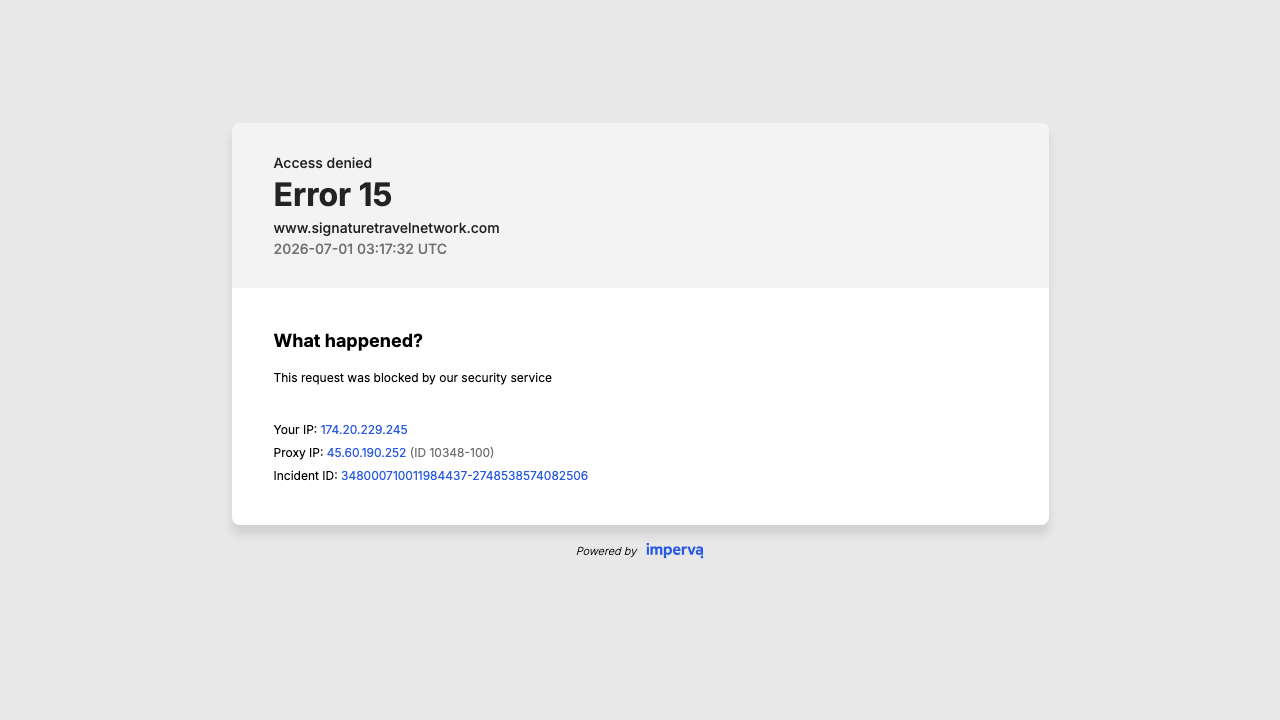
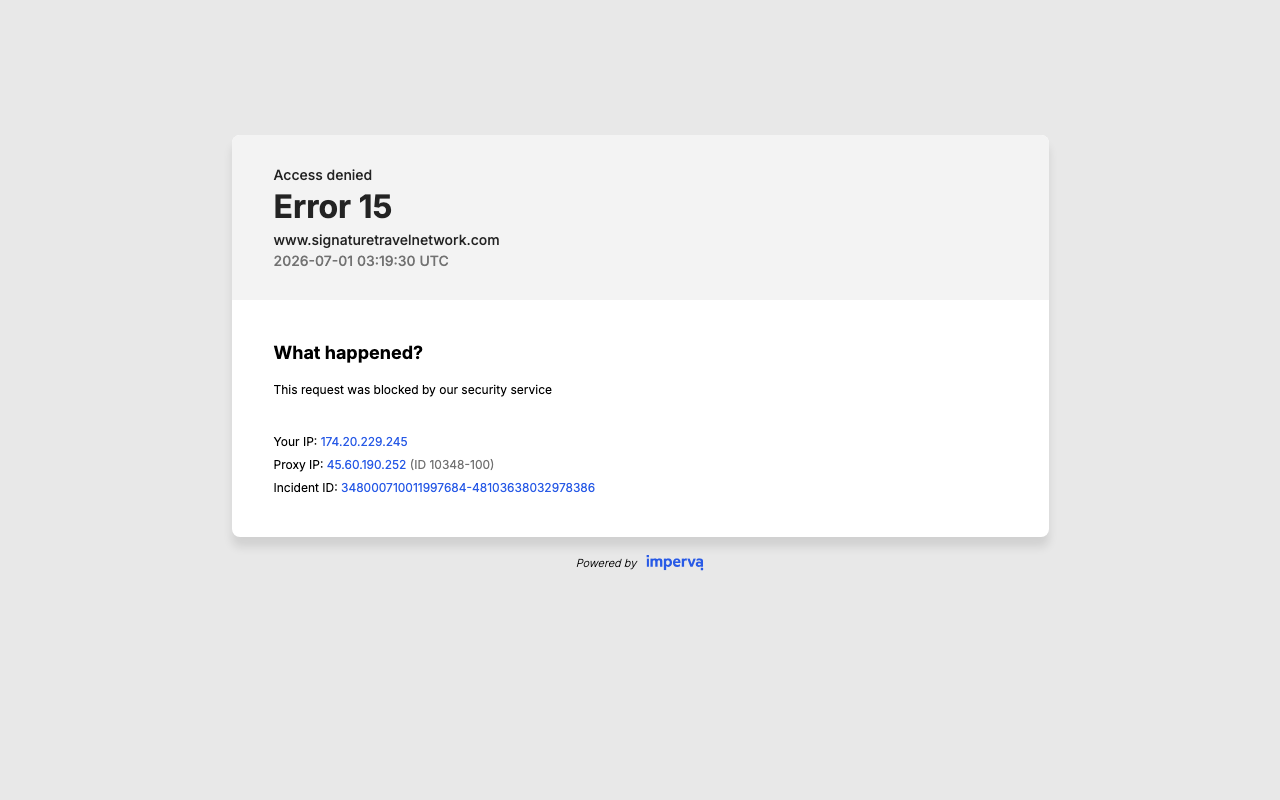
Support visible browser launches and automation overrides to bypass Incapsula on Signature Travel Network

Changed region(s): [[0.1562, 0.5194, 0.8438, 0.7944], [0.2188, 0.2139, 0.4062, 0.3667], [0.2188, 0.4278, 0.4375, 0.4889]]

diff --git a/scrapers/signature.js b/scrapers/signature.js
@@ -43,7 +43,11 @@ async function loginSignature() {
   }
 
   console.log('[Signature Auth] Attempting automated credential-based login...');
-  const browser = await chromium.launch({ headless: true });
+  const headless = process.env.SIGNATURE_HEADLESS === 'true';
+  const browser = await chromium.launch({
+    headless: headless,
+    args: ['--disable-blink-features=AutomationControlled']
+  });
   const context = await browser.newContext({
     userAgent: 'Mozilla/5.0 (Macintosh; Intel Mac OS X 10_15_7) AppleWebKit/537.36 (KHTML, like Gecko) Chrome/120.0.0.0 Safari/537.36',
     viewport: { width: 1280, height: 800 }
@@ -108,7 +112,11 @@ async function scrapeSignature() {
       throw new Error('No saved authentication state found. Login required.');
     }
 
-    browser = await chromium.launch({ headless: true });
+    const headless = process.env.SIGNATURE_HEADLESS === 'true';
+    browser = await chromium.launch({
+      headless: headless,
+      args: ['--disable-blink-features=AutomationControlled']
+    });
     const context = await browser.newContext({
       storageState: authStatePath,
       userAgent: 'Mozilla/5.0 (Macintosh; Intel Mac OS X 10_15_7) AppleWebKit/537.36 (KHTML, like Gecko) Chrome/120.0.0.0 Safari/537.36',

diff --git a/index.html b/index.html
@@ -607,7 +607,7 @@
 
   <script>
     window.PAYLOAD_TYPE = "plaintext";
[2 lines of base64/hex data omitted]
     window.PAYLOAD_SALT = "";
     window.PAYLOAD_IV = "";
 

diff --git a/inspect_signature_error.html b/inspect_signature_error.html
@@ -1,1 +1,1 @@
-<html style="height:100%"><head><meta name="ROBOTS" content="NOINDEX, NOFOLLOW"><meta name="format-detection" content="telephone=no"><meta name="viewport" content="initial-scale=1.0"><meta http-equiv="X-UA-Compatible" content="IE=edge,chrome=1"><script type="text/javascript" src="/_Incapsula_Resource?SWJIYLWA=719d34d31c8e3a6e6fffd425f7e032f3"></script></head><body style="margin:0px;height:100%"><iframe id="main-iframe" src="/_Incapsula_Resource?CWUDNSAI=23&amp;xinfo=[phone redacted]%200NNN%20RT%[phone redacted]%2049%29%20q%280%20-1%20-1%201%29%20r%280%20-1%29%20B15%2811%2c3946309%2c0%29%20U5&amp;incident_id=348000710011984437-2748538574082506&amp;edet=15&amp;cinfo=0b000000&amp;rpinfo=0&amp;cip=[phone redacted]&amp;mth=GET" frameborder="0" width="100%" height="100%" marginheight="0px" marginwidth="0px">Request unsuccessful. Incapsula incident ID: 348000710011984437-2748538574082506</iframe></body></html>
+<html style="height:100%"><head><meta name="ROBOTS" content="NOINDEX, NOFOLLOW"><meta name="format-detection" content="telephone=no"><meta name="viewport" content="initial-scale=1.0"><meta http-equiv="X-UA-Compatible" content="IE=edge,chrome=1"></head><body style="margin:0px;height:100%"><iframe id="main-iframe" src="/_Incapsula_Resource?CWUDNSAI=23&amp;xinfo=[phone redacted]%200NNN%20RT%[phone redacted]%20197%29%20q%280%20-1%20-1%20-1%29%20r%280%20-1%29%20B15%2811%2c3946309%2c0%29%20U5&amp;incident_id=348000710011997684-48103638032978386&amp;edet=15&amp;cinfo=0b000000&amp;rpinfo=0&amp;cip=[phone redacted]&amp;mth=GET" frameborder="0" width="100%" height="100%" marginheight="0px" marginwidth="0px">Request unsuccessful. Incapsula incident ID: 348000710011997684-48103638032978386</iframe></body></html>